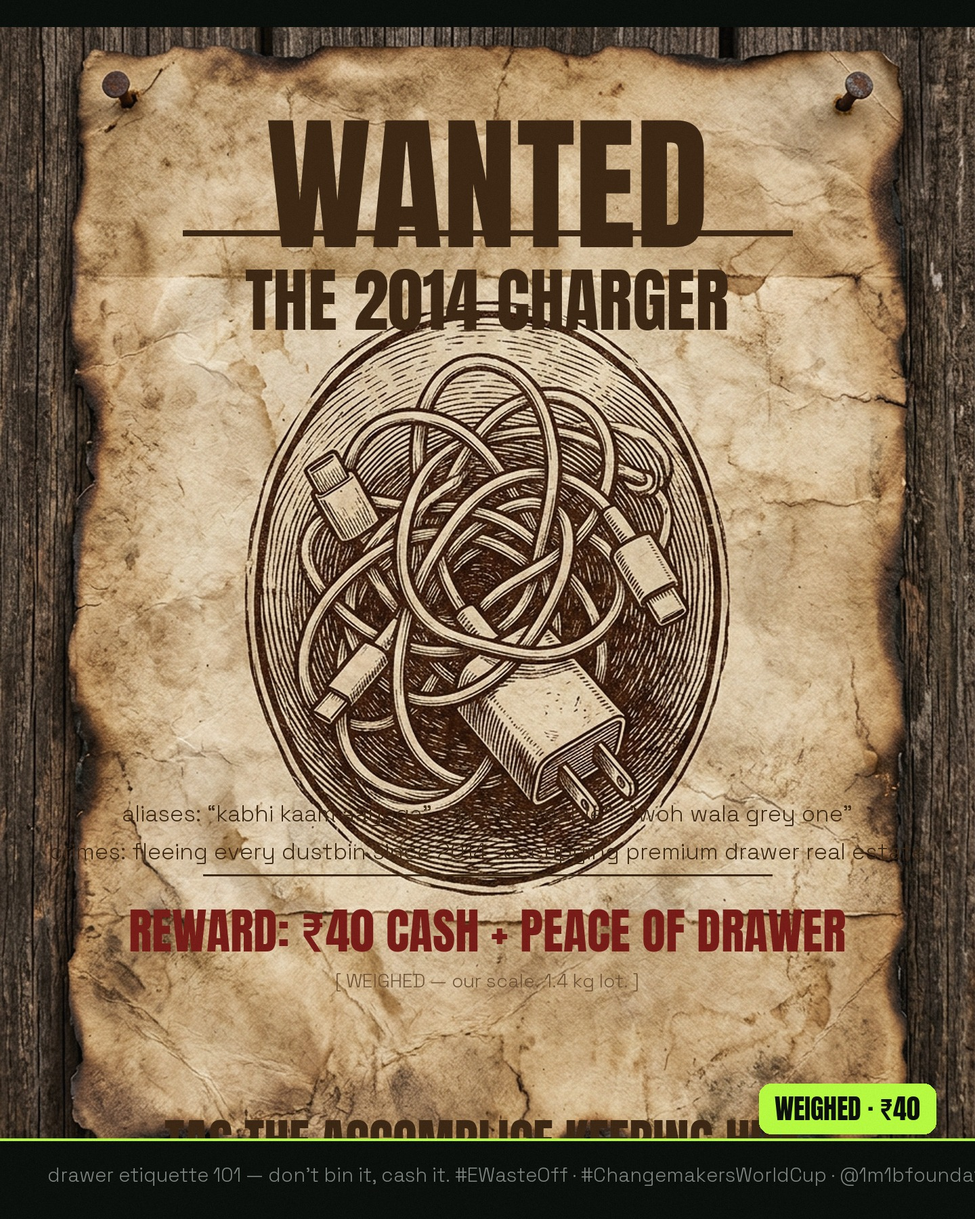
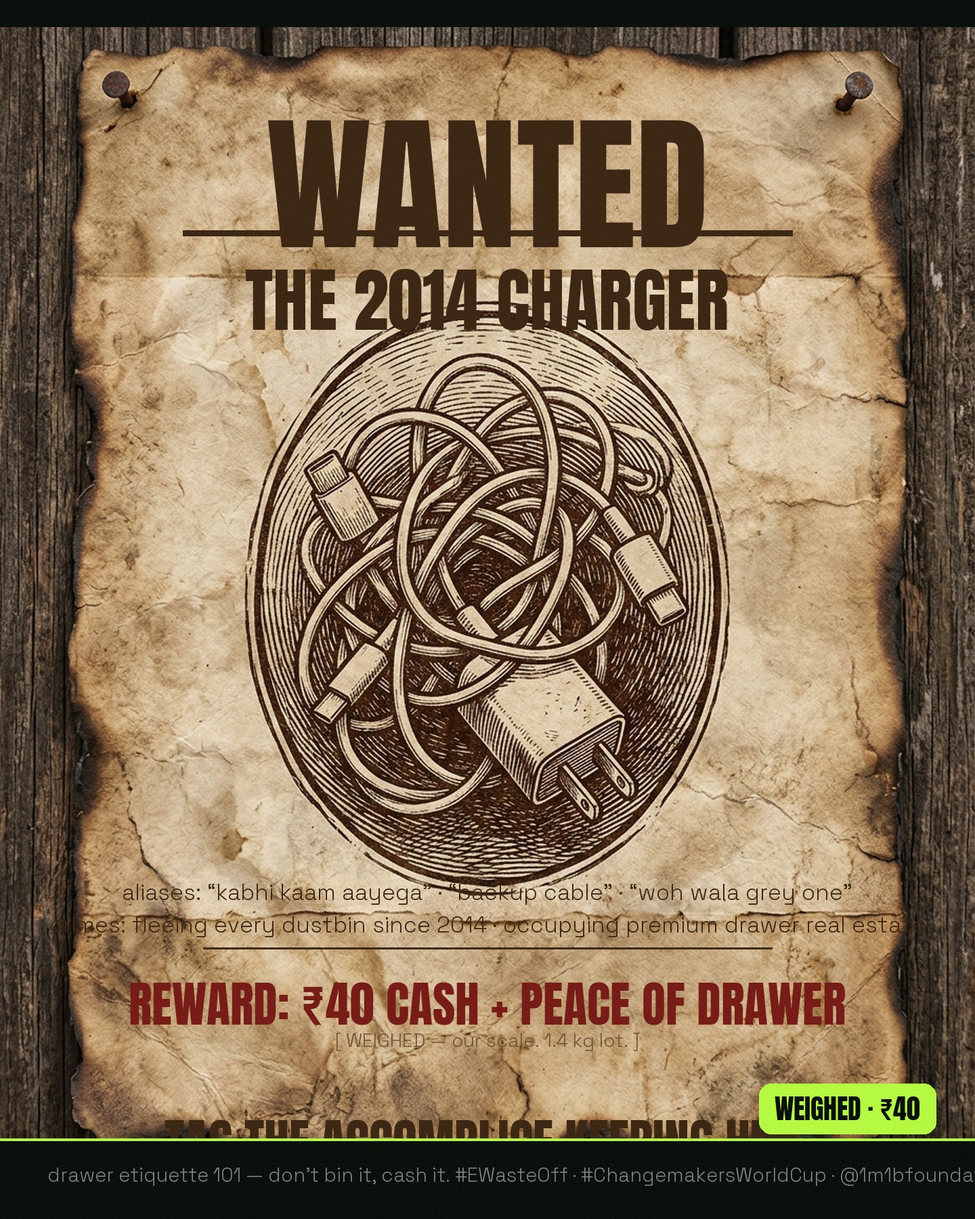
OVERLAP EXTERMINATION: footer captions now wrap dynamically left of stamp chips (was sliding under on M5/M7/all long-stamp posts), M8 boards fully legible (RECEIPTS/1CRORE/POST IT/TAULO), M6 label off the face, R1 plaque/R2 stamp/R6 text-flow/R7 stamp reflowed — all 21 posts re-verified via zoom cro

diff --git a/vikaas-hq/studio/posts2_build/build_posts_v2.py b/vikaas-hq/studio/posts2_build/build_posts_v2.py
@@ -61,8 +61,10 @@ def footer(d, caption, stamp, stamp_bg=ACID):
     h = 216
     d.rectangle([0, 1800-h, 1440, 1800], fill=INK)
     d.line([0, 1800-h, 1440, 1800-h], fill=(63, 71, 64), width=3)
+    sf0 = f_anton(42); w0 = d.textlength(stamp, font=sf0) + 50
+    cap_w = (1440 - 70 - w0) - 110
     cap_font = f_dev(44) if has_dev(caption) else f_mono(40)
-    lines = wrap(d, caption, cap_font, 1010)
+    lines = wrap(d, caption, cap_font, cap_w)
     y = 1800 - h + 44
     for ln in lines:
         lf = f_dev(44) if has_dev(ln) else f_mono(40)
@@ -137,7 +139,7 @@ def r1():
     pd_.text((sh+30, sh+74), "mixed media on drawer · donated by EVERY INDIAN HOUSEHOLD", font=f_mono(28), fill=(110,86,60))
     pd_.line([sh+26, sh+122, sh+934, sh+122], fill=(180,150,110), width=2)
     pd_.text((sh+30, sh+140), "verdict: it never did. recycle it instead.", font=f_anton(52), fill=(120,20,20))
-    rot_paste(img, card, 720, 1538, -1.5)
+    rot_paste(img, card, 720, 1466, -1.5)
     footer(d, "the national drawer anthem. LIE no. 001 — documented, framed, hung.", "LIE no.001 · TRUE")
     posts["R1_museum"] = grain(img)
 
@@ -184,7 +186,8 @@ def r2():
     sd.rectangle([8, 8, 612, 202], outline=(200,30,40,255), width=8)
     sd.text((310, 70), "DOORSTEP COUNT:", font=f_mono(38), fill=(200,30,40,255), anchor="mm")
     sd.text((310, 148), "0 (ZERO)", font=f_anton(94), fill=(200,30,40,255), anchor="mm")
-    rot_paste(img, st, 1130, 415, -11)
+    st = st.resize((int(st.width*0.88), int(st.height*0.88)), Image.LANCZOS)
+    rot_paste(img, st, 1050, 330, -11)
     footer(d, "the infrastructure exists. the doorstep doesn’t. the list is public — we just never look.", "SOURCED · HSPCB")
     posts["R2_lost"] = grain(img)
 
@@ -332,12 +335,12 @@ def r6():
     d.text((720, 108), "WANTED", font=f, fill=INKB, anchor="ma")
     d.rectangle([270, 118+ f.size*1.02, 1170, 118+f.size*1.02+8], fill=INKB)
     d.text((720, 364), "THE 2014 CHARGER", font=f_anton(104), fill=INKB, anchor="ma")
-    d.text((720, 1180), "aliases: “kabhi kaam aayega” · “backup cable” · “woh wala grey one”", font=f_mono(33), fill=INKB, anchor="ma")
-    d.text((720, 1236), "crimes: fleeing every dustbin since 2014 · occupying premium drawer real estate", font=f_mono(33), fill=INKB, anchor="ma")
-    d.line([300, 1292, 1140, 1292], fill=INKB, width=3)
+    d.text((720, 1296), "aliases: “kabhi kaam aayega” · “backup cable” · “woh wala grey one”", font=f_mono(33), fill=INKB, anchor="ma")
+    d.text((720, 1344), "crimes: fleeing every dustbin since 2014 · occupying premium drawer real estate", font=f_mono(33), fill=INKB, anchor="ma")
+    d.line([300, 1400, 1140, 1400], fill=INKB, width=3)
     f2, _ = autosize(d, "REWARD: ₹40 CASH + PEACE OF DRAWER", f_anton, 1180, 72)
-    d.text((720, 1320), "REWARD: ₹40 CASH + PEACE OF DRAWER", font=f2, fill=(120, 24, 20), anchor="ma")
-    d.text((720, 1430), "[ WEIGHED — our scale. 1.4 kg lot. ]", font=f_mono(28), fill=(110, 80, 50), anchor="ma")
+    d.text((720, 1428), "REWARD: ₹40 CASH + PEACE OF DRAWER", font=f2, fill=(120, 24, 20), anchor="ma")
+    d.text((720, 1518), "[ WEIGHED — our scale. 1.4 kg lot. ]", font=f_mono(28), fill=(110, 80, 50), anchor="ma")
     d.text((720, 1630), "TAG THE ACCOMPLICE KEEPING HIM.", font=f_anton(74), fill=INKB, anchor="ma")
     shadow = Image.new("RGBA", img.size, (0,0,0,0))
     footer_h = 0
@@ -405,7 +408,7 @@ def r7():
     sd.rectangle([10, 10, 710, 190], outline=(160,30,30,255), width=8)
     sd.text((360, 100), "WEIGHED. NOT GUESSED.", font=f_anton(72), fill=(160,30,30,255), anchor="mm")
     rot_p = stamp_l.rotate(-7, expand=True, resample=Image.BICUBIC)
-    base.alpha_composite(rot_p, (150, y+42))
+    base.alpha_composite(rot_p, (196, y+62))
     y += 290
     # barcode
     import random

diff --git a/vikaas-hq/studio/posts2_build/build_posts.py b/vikaas-hq/studio/posts2_build/build_posts.py
@@ -12,7 +12,7 @@ ROOT   = "/home/user/Goop"
 FIN    = f"{ROOT}/vikaas-hq/studio/drops/FINALE"
 OUT    = f"{FIN}/posts"
 SRC    = f"{ROOT}/image-search"
-ART    = f"{ROOT}/vikaas-hq/studio/drops/ai_art_test"
+ART    = f"{ROOT}/vikaas-hq/studio/drops/FINALE/art_src"
 FONTS  = f"{ROOT}/vikaas-hq/studio/seed/fonts"
 os.makedirs(OUT, exist_ok=True)
 
@@ -82,7 +82,9 @@ def footer(draw, caption, stamp, stamp_bg=ACID):
     draw.rectangle([0, 1800-h, 1440, 1800], fill=INK)
     draw.line([0, 1800-h, 1440, 1800-h], fill=(63, 71, 64), width=3)
     cap_f = f_mono(40); sub_f = f_mono(30)
-    lines = wrap_text(draw, caption, cap_f, 1010)
+    sf = f_anton(44); w_ = draw.textlength(stamp, font=sf) + 52
+    chip_x = 1440 - 70 - w_
+    lines = wrap_text(draw, caption, cap_f, chip_x - 110)
     y = 1800 - h + 48
     for ln in lines:
         draw.text((70, y), ln, font=cap_f, fill=DEW); y += 52
@@ -274,7 +276,7 @@ posts["M6_dbf"] = build_meme(
     f"{SRC}/distracted-boyfriend-meme-template-blank-2.png",
     [
         {"x":0.17, "y":0.66, "w":0.30, "t":"BIG BILLION\nDAY SALE", "sz":48},
-        {"x":0.55, "y":0.70, "w":0.28, "t":"EVERY\nINDIAN HOME", "sz":44},
+        {"x":0.55, "y":0.80, "w":0.28, "t":"EVERY\nINDIAN HOME", "sz":44},
         {"x":0.83, "y":0.90, "w":0.32, "t":"THE DRAWER\n(ALREADY FULL)", "sz":38},
     ],
     "the drawer sees everything. the drawer remembers. the drawer is tired. open the drawer.",
@@ -297,9 +299,9 @@ posts["M8_gru"] = build_meme(
     f"{SRC}/gru-plan-4-panel-presentation-meme-templ-1.png",
     [
         {"x":0.36, "y":0.145, "w":0.22, "t":"TAULO.", "sz":40, "kind":"board"},
-        {"x":0.845, "y":0.13, "w":0.20, "t":"RECEIPTS.", "sz":32, "kind":"board"},
-        {"x":0.345, "y":0.52, "w":0.22, "t":"POST IT.", "sz":38, "kind":"board"},
-        {"x":0.85, "y":0.455, "w":0.20, "t":"1 CRORE\nDRAWERS.", "sz":30, "kind":"board", "fg":(180,30,40)},
+        {"x":0.875, "y":0.115, "w":0.18, "t":"RECEIPTS.", "sz":29, "kind":"board"},
+        {"x":0.362, "y":0.50, "w":0.20, "t":"POST IT.", "sz":36, "kind":"board"},
+        {"x":0.875, "y":0.43, "w":0.18, "t":"1 CRORE\nDRAWERS.", "sz":27, "kind":"board", "fg":(180,30,40)},
         {"x":0.72, "y":0.775, "w":0.30, "t":"TOP 3 →\nGENEVA.", "sz":48, "kind":"board"},
     ],
     "taulo. receipts. post. repeat. the world cup's top 3 fly to the UN in geneva — that's the plan, publicly.",
